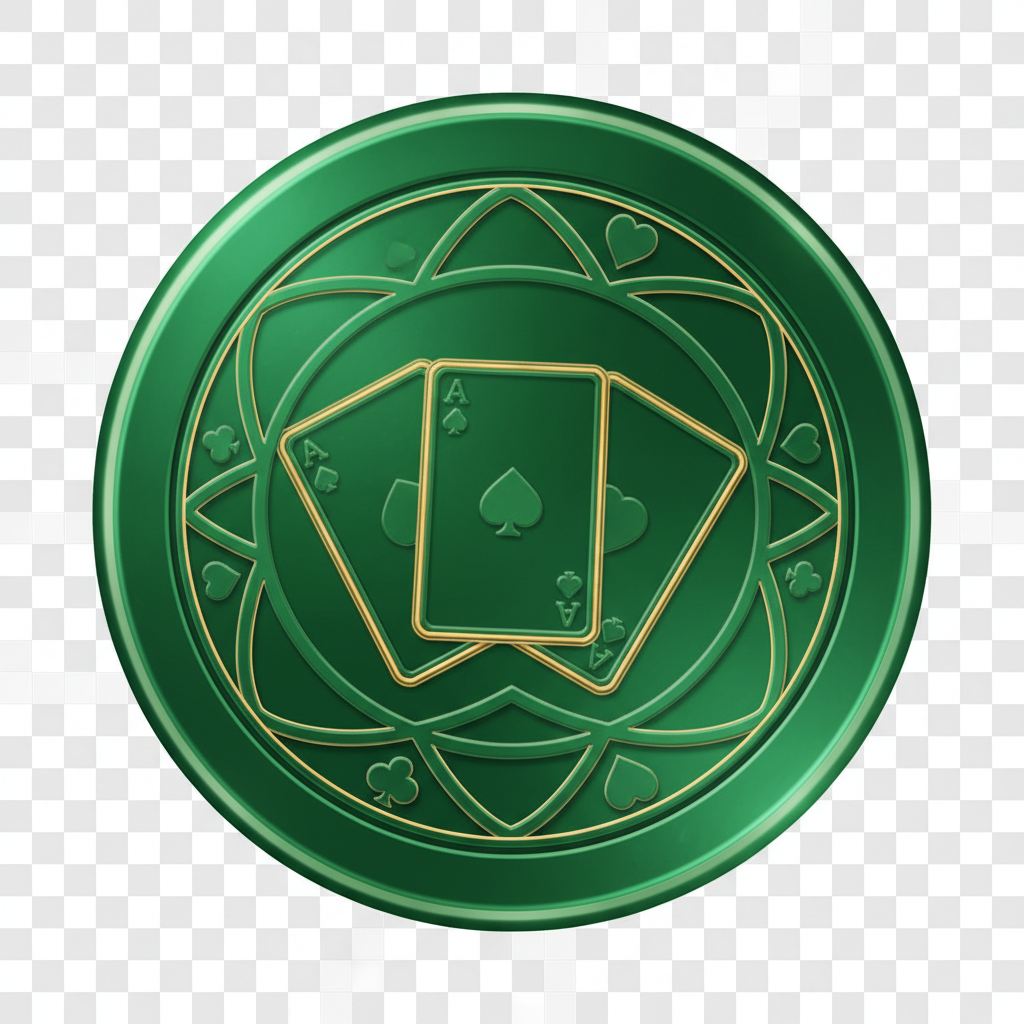
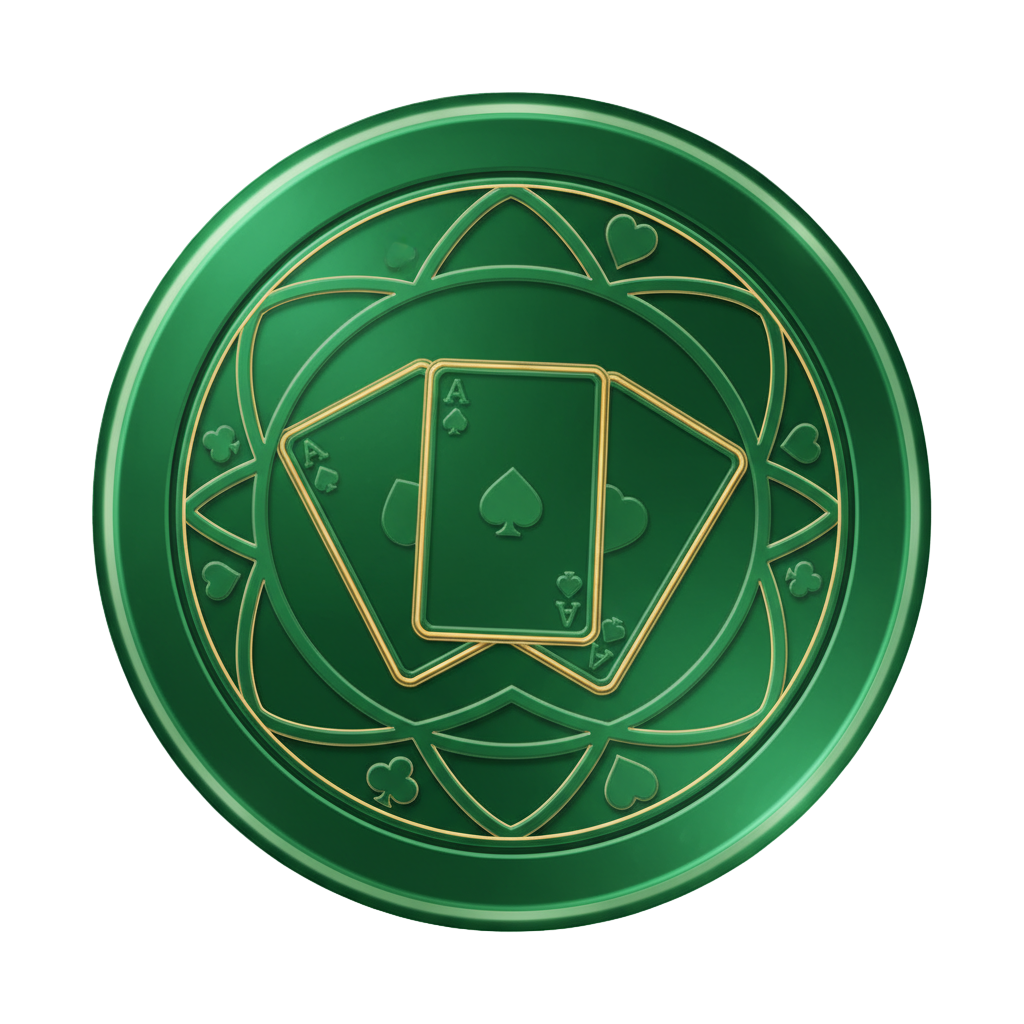
Update coin flip game to use new coin image assets
Replaced SVG coin assets with PNG versions in the CoinflipGame component and updated import paths.

Replit-Commit-Author: Agent
Replit-Commit-Session-Id: d10690fc-19f4-4312-b4a7-2fdb43479bf4
Replit-Commit-Checkpoint-Type: full_checkpoint
Replit-Commit-Event-Id: 7af433d9-33d5-41b5-af5b-e48cd171252c
Replit-Commit-Screenshot-Url: https://storage.googleapis.com/screenshot-production-us-central1/47af4595-e57c-4a7d-9c4f-690f608e4092/d10690fc-19f4-4312-b4a7-2fdb43479bf4/SL16Gjj

diff --git a/src/pages/CoinflipGame.tsx b/src/pages/CoinflipGame.tsx
@@ -4,8 +4,8 @@ import { Button } from "@/components/ui/button";
 import { Card } from "@/components/ui/card";
 import { Input } from "@/components/ui/input";
 import { ArrowLeft, Gem } from "lucide-react";
-import coinHeads from "@/assets/coin-heads.svg";
-import coinTails from "@/assets/coin-tails.svg";
+import coinHeads from "@/assets/coin-heads.png";
+import coinTails from "@/assets/coin-tails.png";
 
 const CoinflipGame = () => {
   const navigate = useNavigate();
